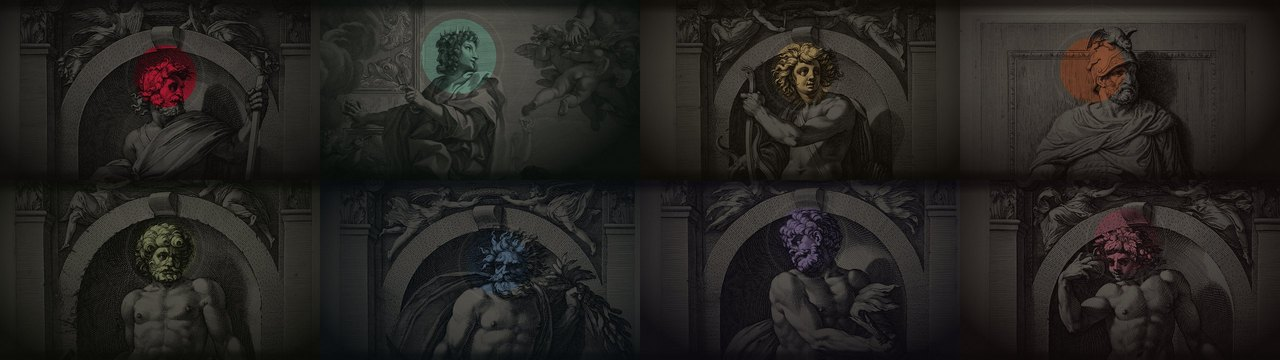
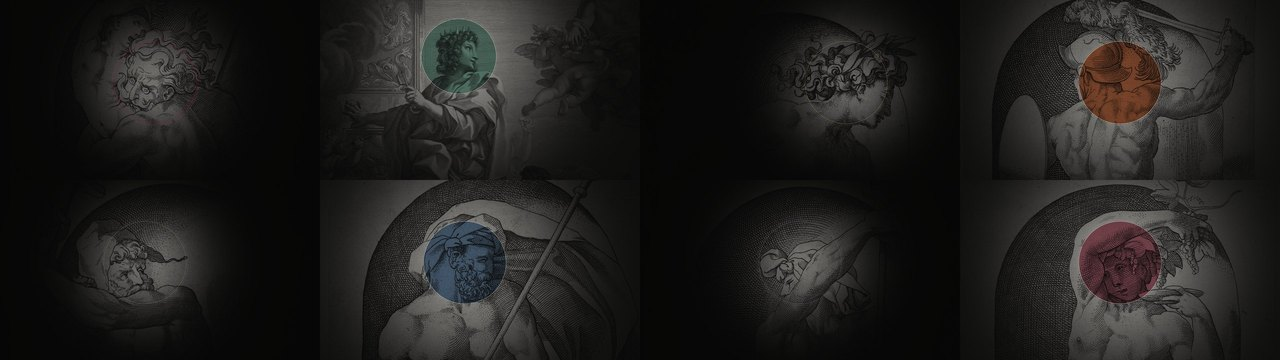
docs(readme): show the new look

diff --git a/docs/images/README.md b/docs/images/README.md
@@ -2,31 +2,30 @@
 
 | File | What | Source |
 |---|---|---|
-| `banner.jpg` | The wordmark, the motto and the plate of Saturnus | Drawn for this repository from StrixUI's fonts and wallpaper |
+| `banner.jpg` | The wordmark, the motto, one line on what Strix is, the owl in the colours of Saturnus and the dark plate of Saturnus | Drawn for this repository from StrixUI's fonts and wallpaper; the owl from the theme engine (`theme render owl saturnus`) |
 | `desktop.jpg` | The desktop with the top bar, Saturnus | Rendering `docs/renders/Desktop.png` of [StrixUI](https://github.com/liviosysctl/StrixUI) |
-| `lock-screen.jpg` | The lock screen, Janus | Rendering `docs/renders/LockScreen.png` of StrixUI |
+| `lock-screen.jpg` | The lock screen, Saturnus | Rendering `docs/renders/LockScreen.png` of StrixUI |
 | `search.jpg` | Search | Rendering `docs/renders/Search.png` of StrixUI |
 | `theme-picker.jpg` | The theme picker | Rendering `docs/renders/ThemePicker.png` of StrixUI |
-| `gods.jpg` | The eight god plates | Rendering `docs/renders/Themes-plates.jpg` of StrixUI |
+| `gods.jpg` | The eight god plates, dark and light in turn | Rendering `docs/renders/Themes-plates.jpg` of StrixUI |
 | `dock.jpg` | The dock | Rendering `docs/renders/EdgeDock.png` of StrixUI |
 | `terminal.jpg` | The terminal | Rendering `docs/renders/Terminal.png` of StrixUI |
 | `cheat-sheet.jpg` | The cheat sheet | Rendering `docs/renders/Cheatsheet.png` of StrixUI |
 | `settings-hotkeys.jpg` | Settings, hotkeys | Rendering `docs/renders/SettingsHotkeys.png` of StrixUI |
 | `boot-splash.jpg` | The boot splash | Rendering `docs/renders/BootSplash.png` of StrixUI |
-| `qml-gallery.jpg` | The QML components under Saturnus | Rendering `docs/renders/qml-saturnus.png` of StrixUI |
 
-The renderings come from StrixUI at commit `4aec975`, the version this repository takes as its flake input. They show the design; the shell in `shell/qml` is built from the same components.
+The renderings come from StrixUI at commit `7b95a13`. They show the design; the shell in `shell/qml` is built from the same components.
 
 ## The engravings
 
-Every plate is an engraving from a public collection, recoloured in the two inks of its theme. The full list with titles, engravers, dates and object numbers is in StrixUI's `design-system/assets/Wallpapers/README.md`.
+Every plate is an engraving from a public collection, printed in neutral ink and paper with one ring in the colour of its theme. The full list with titles, engravers, dates and object numbers is in StrixUI's `design-system/assets/Wallpapers/README.md`.
 
 | Plate | Engraving | Licence |
 |---|---|---|
-| Saturnus (banner, desktop) | Hendrick Goltzius after Polidoro da Caravaggio, Saturnus, from Eight Pagan Gods, 1592. Art Institute of Chicago 2023.968 | CC0 |
-| Janus (lock screen) | Robert van Audenaerd after Carlo Maratta, Janus opens the door of the year, 1685 to 1723. Rijksmuseum RP-P-OB-67.432 | Public domain |
-| The other gods (`gods.jpg`, theme picker, the other screens) | Engravings from the Art Institute of Chicago and the Rijksmuseum, listed in StrixUI | CC0 or public domain |
+| Saturnus (banner, desktop, lock screen and the other screens) | Jacob Binck after Giovanni Jacopo Caraglio after Rosso Fiorentino, Saturnus, from the Gods in Niches, 1530. Rijksmuseum RP-P-1951-178A | Public domain |
+| Janus (`gods.jpg`, theme picker) | Robert van Audenaerd after Carlo Maratta, Janus opens the door of the year, 1685 to 1723. Rijksmuseum RP-P-OB-67.432 | Public domain |
+| The other gods (`gods.jpg`, theme picker) | Jacob Binck after Giovanni Jacopo Caraglio after Rosso Fiorentino, from the Gods in Niches, Rijksmuseum, listed in StrixUI | Public domain |
 
 ## The fonts in the banner
 
-Grenze Gotisch, IM Fell English and JetBrains Mono, all under the SIL Open Font License, shipped with StrixUI (`design-system/fonts/`, with their licence files).
+Cormorant Garamond and Hanken Grotesk, both under the SIL Open Font License, shipped with StrixUI (`design-system/fonts/`, with their licence files).

diff --git a/README.md b/README.md
@@ -14,9 +14,9 @@ State :: work in progress, tested on an old laptop
 
 ![The desktop under Saturnus](docs/images/desktop.jpg)
 
-*Saturnus with his sickle. Engraved by Hendrick Goltzius after Polidoro da Caravaggio, 1592*
+*Saturnus devours one of his children, his scythe beside him in the niche. Jacob Binck after Rosso Fiorentino, 1530*
 
-The look comes from [StrixUI](https://github.com/liviosysctl/StrixUI), the design system of Strix: near-black surfaces, an old engraving as the ground, one accent colour, type from an old printing house beside a quiet monospace. The proof of concept has a single theme, Saturnus; nothing changes by itself.
+The look comes from [StrixUI](https://github.com/liviosysctl/StrixUI), the design system of Strix: near-black surfaces, an old engraving as the ground, one accent colour that is used sparingly, floating surfaces of smoked glass, an old-style serif for titles beside a plain grotesque for everything else. The proof of concept has a single theme, Saturnus; nothing changes by itself.
 
 | | |
 |---|---|
@@ -27,12 +27,10 @@ The look comes from [StrixUI](https://github.com/liviosysctl/StrixUI), the desig
 
 | | |
 |---|---|
-| ![The dock](docs/images/dock.jpg) | ![The terminal](docs/images/terminal.jpg) |
-| *The dock* | *The terminal, Ghostty in the theme's colours* |
-| ![The boot splash](docs/images/boot-splash.jpg) | ![The QML components under Saturnus](docs/images/qml-gallery.jpg) |
-| *The boot splash* | *The QML components under Saturnus* |
+| ![The terminal](docs/images/terminal.jpg) | ![The boot splash](docs/images/boot-splash.jpg) |
+| *The terminal, Ghostty in the theme's colours* | *The boot splash* |
 
-These are renderings of the design from StrixUI; the shell in this repository is built from the same components. The dock is designed but not built yet. Sources and licences of every picture are in [docs/images/README.md](docs/images/README.md).
+These are renderings of the design from StrixUI; the shell in this repository is built from the same components. Sources and licences of every picture are in [docs/images/README.md](docs/images/README.md).
 
 ## Branches
 
